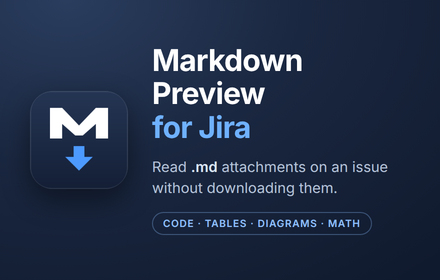
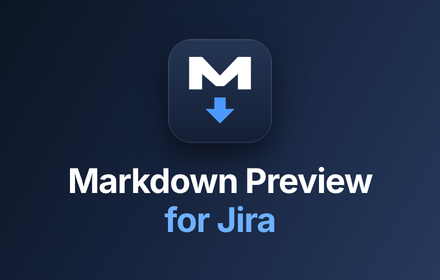
Add Web Store submission notes and the store-sized graphic assets
The listing doc carries the copy for each dashboard field, a justification
for every permission, and the data-usage answers — written against what the
code does, not from memory. It also records why optional_host_permissions is
the most likely rejection and what to do if that happens, so a rejection
doesn't start from a blank page.

Two graphic assets the listing needs separately from the extension icons.
Google wants the 128px store icon as 96px of artwork inside transparent
padding, which is not what the browser UI wants, so it can't be the same
file as icons/icon128.png. The 440x280 tile is down to the mark and the name:
promo images have to stay readable at half size, and the earlier draft's body
text did not.

Claude-Session: https://claude.ai/code/session_012hVAqsyZzGXw1BeCRD85AQ

diff --git a/CHROME-WEB-STORE-LISTING.md b/CHROME-WEB-STORE-LISTING.md
@@ -1,0 +1,224 @@
+# Chrome Web Store submission — Markdown Preview for Jira 1.0.0
+
+Everything the dashboard asks for, in the order the dashboard asks for it.
+Copy the blocks verbatim; they are written to match what the code actually does.
+
+Upload package: `markdown-preview-for-jira-1.0.0.zip` (built from this repo, 47 files, 1.4 MB).
+Not tracked in git — rebuild it with the command at the bottom of this file.
+
+---
+
+## 1. Store listing tab
+
+**Name** (limit 75) — 25 characters
+
+```
+Markdown Preview for Jira
+```
+
+**Summary** (limit 132) — 118 characters. Identical to `description` in the manifest; keep the two in sync.
+
+```
+Read .md attachments on a Jira issue without downloading them — rendered inline, with code, tables, diagrams and math.
+```
+
+**Category** — `Workflow & Planning`. `Developer Tools` is the defensible alternative; pick one and leave it
+alone, since changing category later resets some review state.
+
+**Language** — English (United States).
+
+**Description**
+
+```
+Someone attaches a design doc, a runbook, or release notes to a Jira issue as a .md file. Today that
+means downloading it, finding it, and opening it in another app — and doing it again every time the
+file changes.
+
+This extension renders it where it already is. Open the issue, click the button in the bottom-right
+corner, and the file opens on top of the issue, formatted.
+
+WHAT IT RENDERS
+
+• GitHub-flavored markdown — tables, task lists, strikethrough, autolinks
+• Syntax highlighting for around 40 languages
+• Mermaid diagrams, redrawn when you switch theme
+• Math, inline and display
+• GitHub alerts — NOTE, TIP, IMPORTANT, WARNING, CAUTION
+• YAML front matter as a table instead of a stray horizontal rule
+
+WHILE READING
+
+• A table of contents that follows your scroll position
+• Light and dark themes, and adjustable text size
+• Copy the raw markdown, or any single code block
+• Export a standalone HTML file, print, or pop the preview into its own tab
+• Esc closes it. Alt+Shift+M opens it from the keyboard.
+
+WHY AN ORDINARY MARKDOWN VIEWER DOESN'T COVER THIS
+
+Other markdown viewers wait for you to navigate to a .md file, then render that page. That never
+happens with a Jira attachment: Jira serves attachments as a download rather than a page, the URL is
+an opaque id that redirects to a signed media host, and the issue view shows attachments as cards
+rather than links. So the usual approach never fires. This extension goes the other way round — it
+reads the issue's own attachment list, fetches the file with the session you are already signed in
+with, and renders the result.
+
+PRIVACY
+
+Nothing is collected. No analytics, no accounts, no telemetry, no servers of any kind. Every library
+is bundled inside the extension, so no code is fetched at runtime. The extension only runs on Jira
+domains, and the only requests it makes are to your own Jira site: the issue's attachment list, and
+the one file you click.
+
+Open source — the full source is linked below.
+
+Not affiliated with, endorsed by, or sponsored by Atlassian. Jira is a trademark of Atlassian Pty Ltd.
+```
+
+---
+
+## 2. Graphic assets
+
+| Dashboard slot | File | Notes |
+|---|---|---|
+| Store icon, 128×128, **required** | `store-assets/store-icon-128.png` | 96×96 artwork with 16px transparent padding, which is what Google asks for here. Not the same file as `icons/icon128.png`, which fills the tile because that is what the browser UI wants. |
+| Screenshots, 1280×800, **1–5 required** | `screenshots/1-reader-light.png`, `2-diagram-math-light.png`, `3-code-light.png`, `4-settings-light.png` | Upload in that order — the first one is the thumbnail. Full bleed, square corners, no padding, as required. |
+| Small promo tile, 440×280, **required** | `store-assets/promo-tile-440x280.png` | Deliberately just the mark and the name; Google asks that promo images still read at half size. |
+| Marquee promo tile, 1400×560, optional | `store-assets/promo-marquee-1400x560.png` | Only used if the item gets featured. No harm in supplying it. |
+
+The dark-theme screenshots (`*-dark.png`) are alternates. Do not mix light and dark in the same set —
+pick one look and stay with it, or the listing reads as inconsistent.
+
+---
+
+## 3. Privacy tab
+
+**Single purpose**
+
+```
+The extension has one purpose: to display a markdown (.md) file that is attached to a Jira issue as
+rendered text, in the tab the user is already on, instead of requiring them to download the file and
+open it in another application.
+
+Everything in the extension serves that purpose. On a Jira issue page it reads the issue's attachment
+list to determine whether any attachment is a markdown file. If one is, it shows a single button in
+the bottom-right corner. Clicking the button fetches that file and renders it in an overlay. The
+settings page exposes only reading preferences (theme, text size, table of contents) and one optional
+permission toggle described below. The extension does nothing on any other site and has no other
+feature.
+```
+
+**Permission justifications**
+
+`storage`
+
+```
+Used for two things, both local to the browser. First, the user's three reading preferences — colour
+theme, base text size, and whether the table of contents starts open — are kept in
+chrome.storage.local so the preview looks the same next time. Second, when the user pops a preview
+out into its own tab, the document is passed to that tab through chrome.storage.session and cleared
+as soon as the tab reads it.
+
+No page content, file content, or user information is written to persistent storage, and nothing in
+storage is transmitted anywhere.
+```
+
+`*://*.atlassian.net/*`, `*://*.atlassian.com/*`, `*://*.jira.com/*`
+
+```
+These are the domains Jira runs on, and the extension's entire function takes place on a Jira issue
+page. The host permission is needed for two things.
+
+First, the content script runs on the issue page to determine which issue is open, to show the button,
+and to host the preview overlay.
+
+Second, the extension calls two endpoints on the user's own Jira site, using the session they are
+already signed in with: the issue's attachment list
+(/rest/api/3/issue/{issueKey}?fields=attachment), and the download URL of the one markdown attachment
+the user clicked. Jira serves attachments with Content-Disposition: attachment and redirects to a
+signed media host, so this fetch has to be made from the extension's service worker — a fetch from the
+content script is blocked by CORS and cannot follow that redirect with credentials.
+
+The extension makes no other network request, and the host list is limited to these three domains.
+```
+
+`*://*/*` (declared as `optional_host_permissions`)
+
+```
+Off by default, never requested automatically, and not needed by most users.
+
+Some Jira deployments serve attachment downloads from a host outside the Atlassian domains — a
+customer-owned S3 bucket, for example. For those users the download fetch fails, and the extension
+shows an explanation with a button that opens its settings page, where the user can choose to grant
+this permission. It is used for one thing only: fetching a markdown attachment the user has explicitly
+clicked. The user can revoke it on the same settings page at any time.
+```
+
+**Remote code** — select **No, I am not using remote code**.
+
+Every library (markdown-it, highlight.js, DOMPurify, Mermaid, KaTeX) is bundled in `vendor/` inside the
+package. There is no `eval`, no `new Function`, and no script or stylesheet loaded over the network.
+One caveat worth knowing: a *file the user exports* links the KaTeX stylesheet from a CDN, but that is
+a saved HTML file opened outside the browser extension, not code the extension runs.
+
+**Data usage** — leave **every** collection checkbox unchecked. The extension collects none of the
+listed categories: no personally identifiable information, health, financial, authentication,
+personal communications, location, web history, user activity, or website content.
+
+Then check all three certifications:
+
+- I do not sell or transfer user data to third parties, outside of the approved use cases
+- I do not use or transfer user data for purposes that are unrelated to my item's single purpose
+- I do not use or transfer user data to determine creditworthiness or for lending purposes
+
+**Privacy policy URL**
+
+```
+https://github.com/FahreddinHepdonduran/markdown-preview-for-jira/blob/main/PRIVACY.md
+```
+
+This has to be publicly reachable when you submit, so push the repository first and open the link in a
+private window to confirm.
+
+---
+
+## 4. Before you hit submit
+
+- [ ] The repository is pushed and the privacy policy URL above loads for a signed-out visitor
+- [ ] `markdown-preview-for-jira-1.0.0.zip` is freshly built from a clean tree
+- [ ] Name, summary, and version in the dashboard match `manifest.json`
+- [ ] One screenshot set — all light or all dark, not a mix
+- [ ] No collection checkbox ticked; all three certifications ticked
+- [ ] Support and homepage URLs point at the repository
+- [ ] Visibility set the way you want it. Unlisted first is a reasonable way to see the listing before
+      anyone else does; you can switch to public later without a new review.
+
+## 5. If it comes back rejected
+
+The likeliest cause is `optional_host_permissions: ["*://*/*"]`. Reviewers read a match-all pattern as
+broad host access even when it is optional and off by default, and that is the one thing in this
+package that invites an in-depth review rather than the standard one.
+
+If that is the stated reason, the fastest path is to remove those two lines from `manifest.json` and
+resubmit. The cost is real but small: users whose Jira serves attachments from a non-Atlassian host
+lose the ability to fix their own case from the settings page. Everything else keeps working. Do not
+remove it pre-emptively — it is a genuine feature for those users, and it may well pass.
+
+The second thing reviewers sometimes ask about is minified code. `vendor/` contains minified library
+builds, which is allowed; if you are asked, point them at `build/bundle-entry.js` and `package.json`,
+which together reproduce `vendor/mdp-bundle.js` exactly via `npm run build`.
+
+---
+
+## Rebuilding the upload package
+
+```bash
+rm -f markdown-preview-for-jira-*.zip
+zip -q -r -X "markdown-preview-for-jira-1.0.0.zip" \
+  manifest.json viewer.html src options vendor icons LICENSE \
+  -x "*.DS_Store" "icons/*.svg"
+```
+
+Deliberately excluded: `screenshots/`, `store-assets/`, `testfixtures/`, `build/`, `package.json`,
+`package-lock.json`, `README.md`, `PRIVACY.md`, and this file. None of them are needed at runtime, and
+the smaller the package, the less there is to review.

diff --git a/README.md b/README.md
@@ -89,6 +89,7 @@ screenshots/           1280x800 captures, also used by the Web Store listing
 store-assets/          Chrome Web Store promo tiles (440x280, 1400x560)
 testfixtures/sample.md exercises every feature — handy while developing
 PRIVACY.md             the privacy policy linked from the Web Store listing
+CHROME-WEB-STORE-LISTING.md  listing copy, permission justifications, submission checklist
 LICENSE                MIT
 ```
 
